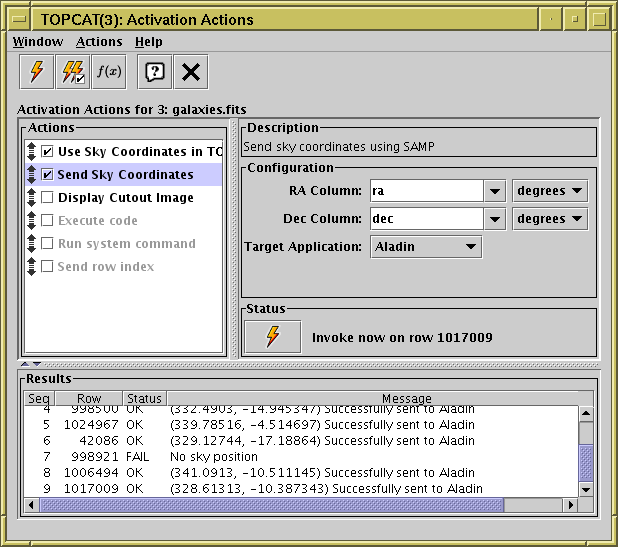
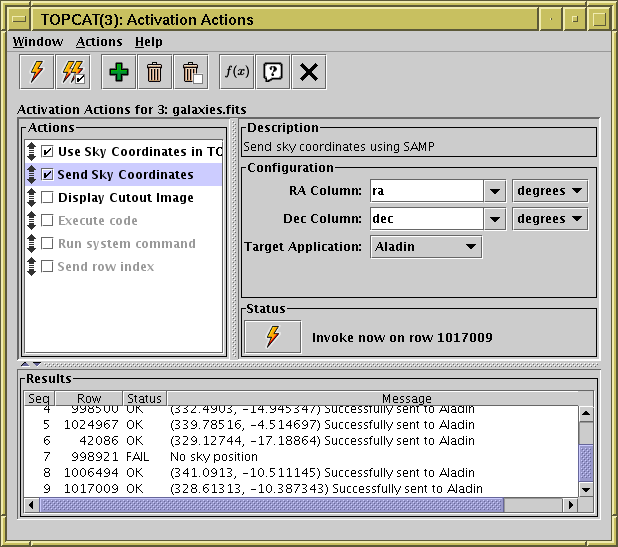
topcat: add more items to ActivationWindow toolbar
Add toolbar items for the existing Add and Remove actions
(previously only in the menu).  Add is a bit clunky, since
it requires a popup menu from the toolbar, but it's important
to have it on display.

Also add a new RemoveInactive action to toolbar and menu.
Add remove-all-inactive-entries button to toolbar and menu

Changed region(s): [[0.123, 0.0932, 0.5534, 0.1865]]

diff --git a/topcat/src/main/uk/ac/starlink/topcat/activate/ActivationWindow.java b/topcat/src/main/uk/ac/starlink/topcat/activate/ActivationWindow.java
@@ -21,9 +21,11 @@ import javax.swing.JComponent;
 import javax.swing.JLabel;
 import javax.swing.JMenu;
 import javax.swing.JPanel;
+import javax.swing.JPopupMenu;
 import javax.swing.JScrollPane;
 import javax.swing.JSplitPane;
 import javax.swing.JTextArea;
+import javax.swing.JToolBar;
 import javax.swing.ListModel;
 import javax.swing.ListSelectionModel;
 import javax.swing.event.ListDataEvent;
@@ -124,11 +126,29 @@ public class ActivationWindow extends AuxWindow {
 
         final JMenu actMenu = new JMenu( "Actions" );
         actMenu.setMnemonic( KeyEvent.VK_A );
-        JMenu addMenu = new JMenu( "Add Action" );
+
+        /* The add item action is really only suitable for a menu item,
+         * but it's important to have it on display, since otherwise
+         * users might not realise that you can add to this list.
+         * So provide a toolbar action with a popup menu instead.
+         * It's slightly clunky to do that, but too bad. */
+        String addName = "Add Action";
+        String addDescrip = "Add a new Activation Action to the displayed list";
+        JMenu addMenu = new JMenu( addName );
         addMenu.setIcon( ResourceIcon.ADD );
-        addMenu.setToolTipText( "Add a new Activation Action"
-                              + " to the displayed list" );
+        addMenu.setToolTipText( addDescrip );
         actMenu.add( addMenu );
+        final JPopupMenu addPopupMenu = new JPopupMenu( addName );
+        Action addPopupAct =
+                new BasicAction( addName, ResourceIcon.ADD, addDescrip ) {
+            public void actionPerformed( ActionEvent evt ) {
+                Object src = evt.getSource();
+                if ( src instanceof Component ) {
+                    Component comp = (Component) src;
+                    addPopupMenu.show( comp, 0, comp.getHeight() );
+                }
+            }
+        };
 
         /* Don't delare this final - it may be out of date after this
          * constructor finishes executing. */
@@ -167,6 +187,7 @@ public class ActivationWindow extends AuxWindow {
                 case DISABLED:
                     addAct.setEnabled( isEnabled );
                     addMenu.add( addAct );
+                    addPopupMenu.add( addAct );
                 case NONE:
                     break;
                 default:
@@ -190,6 +211,19 @@ public class ActivationWindow extends AuxWindow {
                     isel = Math.min( isel, listModel_.getSize() - 1 );
                     if ( isel >= 0 ) {
                         list_.setSelectedIndex( isel );
+                    }
+                }
+            }
+        };
+        final Action removeInactiveAct =
+                new BasicAction( "Remove Inactive Actions",
+                                 ResourceIcon.DELETE_INACTIVE,
+                                 "Remove all inactive (unchecked) actions"
+                               + " from the list" ) {
+            public void actionPerformed( ActionEvent evt ) {
+                for ( ActivationEntry entry : list_.getItems() ) {
+                    if ( ! list_.isChecked( entry ) ) {
+                        listModel_.removeElement( entry );
                     }
                 }
             }
@@ -295,15 +329,21 @@ public class ActivationWindow extends AuxWindow {
         getJMenuBar().add( actMenu );
         actMenu.addSeparator();
         actMenu.add( removeAct );
+        actMenu.add( removeInactiveAct );
         actMenu.addSeparator();
         actMenu.add( invokeSingleAct_ );
         actMenu.add( invokeAllAct_ );
 
         /* Add tools. */
-        getToolBar().add( invokeSingleAct_ );
-        getToolBar().add( invokeAllAct_ );
-        getToolBar().add( MethodWindow.getWindowAction( this, true ) );
-        getToolBar().addSeparator();
+        JToolBar toolbar = getToolBar();
+        toolbar.add( invokeSingleAct_ );
+        toolbar.add( invokeAllAct_ );
+        toolbar.addSeparator();
+        toolbar.add( addPopupAct );
+        toolbar.add( removeAct );
+        toolbar.add( removeInactiveAct );
+        toolbar.addSeparator();
+        toolbar.add( MethodWindow.getWindowAction( this, true ) );
 
         /* Initialise the state. */
         list_.setSelectedIndex( 0 );

diff --git a/topcat/src/main/uk/ac/starlink/topcat/ResourceIcon.java b/topcat/src/main/uk/ac/starlink/topcat/ResourceIcon.java
@@ -150,6 +150,7 @@ public class ResourceIcon implements Icon {
         ACTIVATE = makeIcon( "activate3.png" ),
         REACTIVATE = makeIcon( "flash-1.png" ),
         REACTIVATE_ALL = makeIcon( "flash-2d.png" ),
+        DELETE_INACTIVE = makeIcon( "trash2-box.png" ),
 
         /* Specific actions. */
         UNSORT = makeIcon( "arrow_level.png" ),
